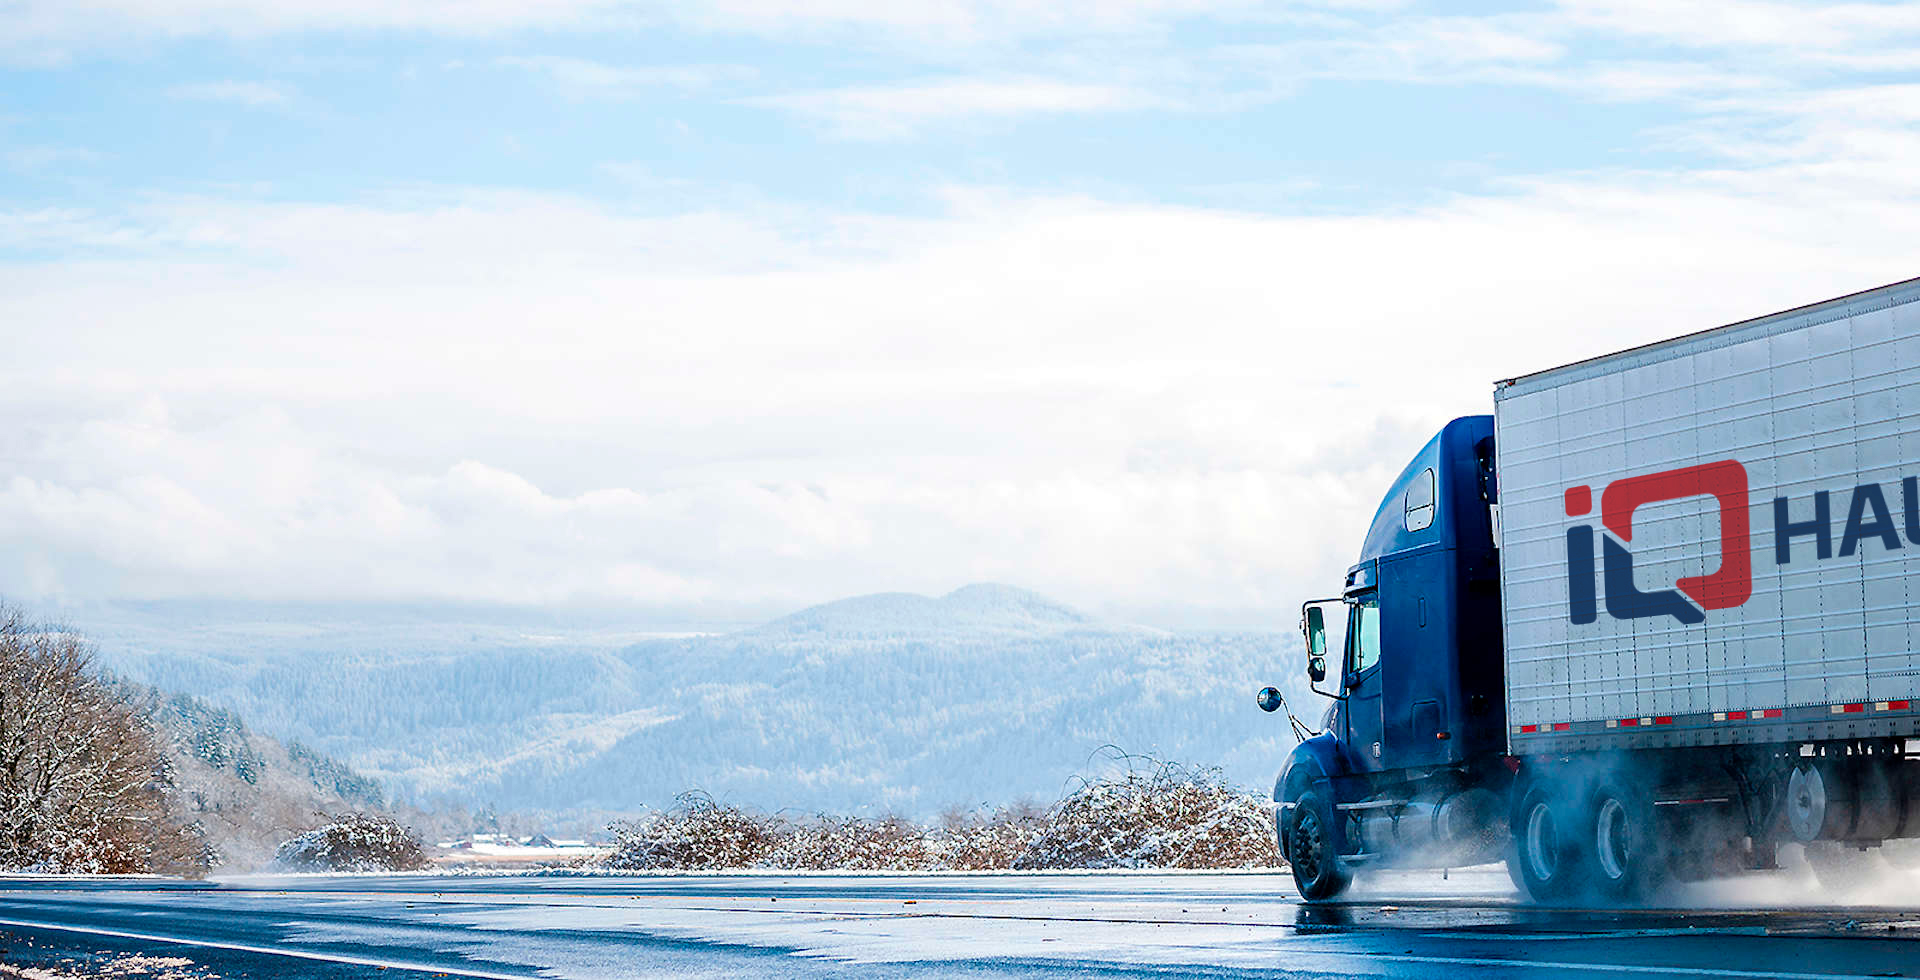
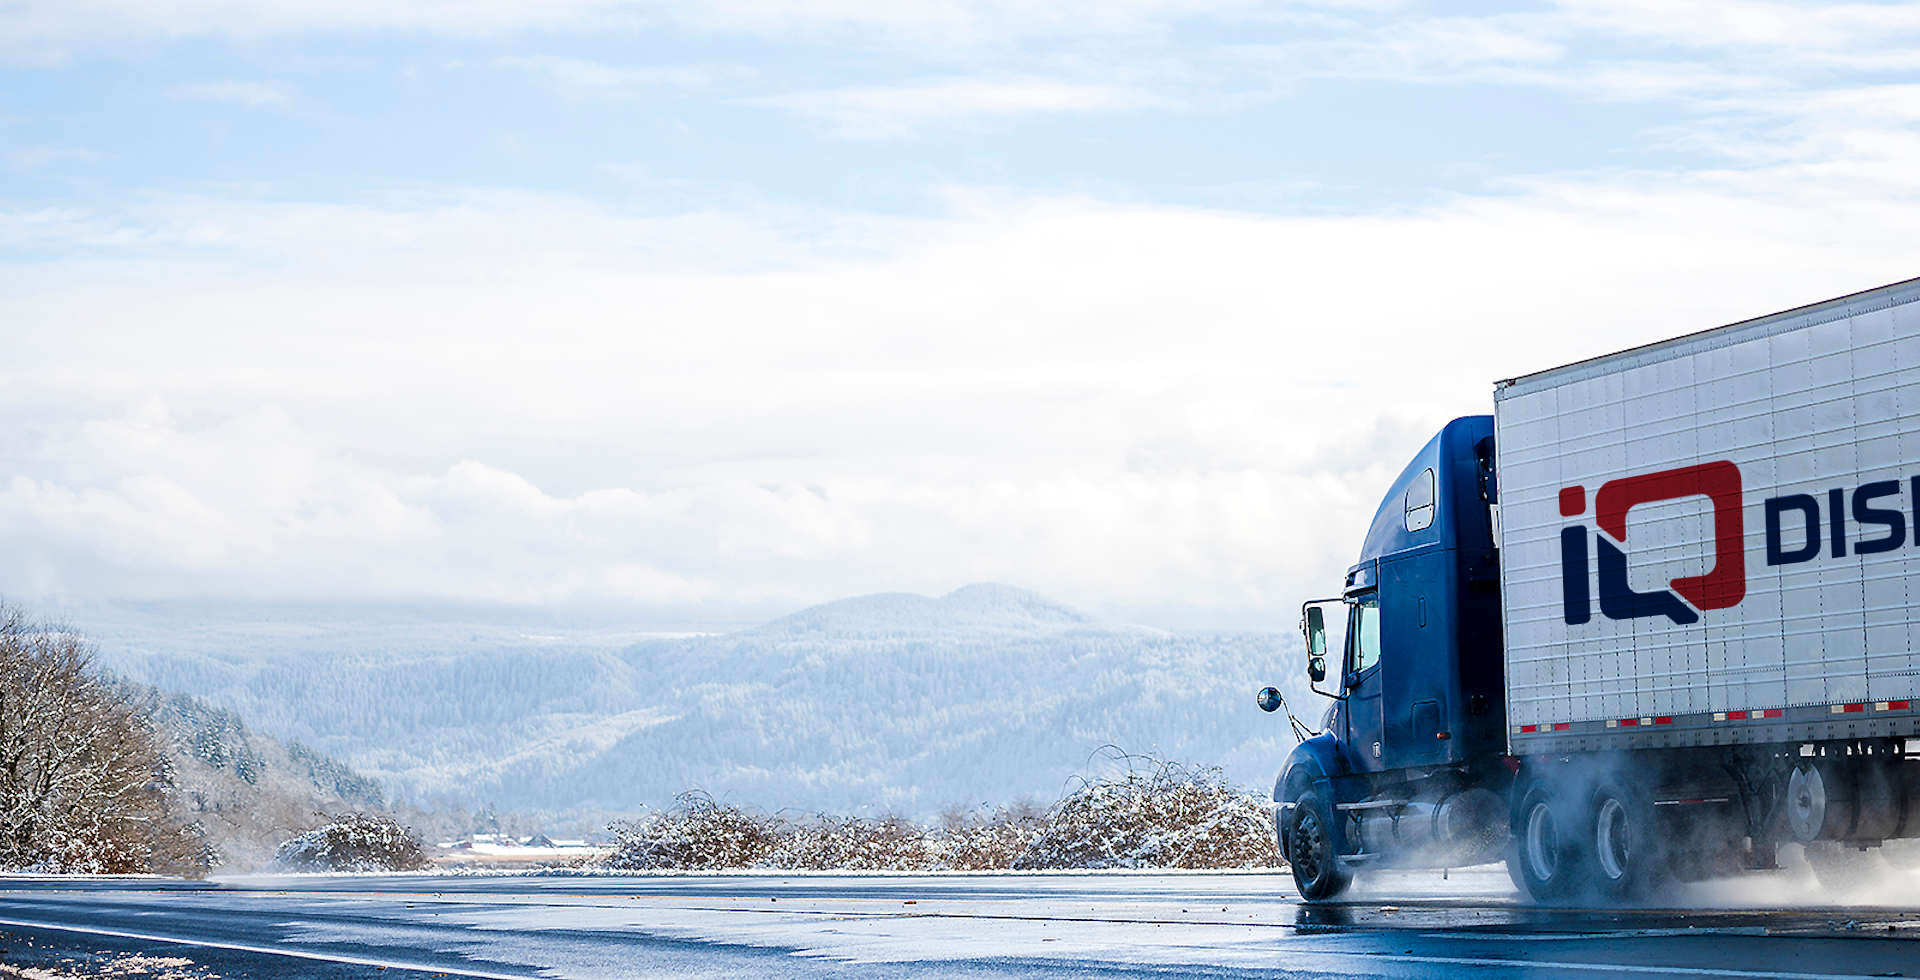
changed 1 slide pic and 3 slide text from IQHaulers to IQdispatch

diff --git a/src/components/HomePage.vue b/src/components/HomePage.vue
@@ -39,7 +39,8 @@
           <div class="col">
             <div class="cols3">
               <div class="c1_title">
-                <h1>IQHaulers introduces low&#8209;cost usage&#8209;based commercial insurance to owner&#8209;operators.
+                <h1>IQDispatch introduces low&#8209;cost usage&#8209;based commercial insurance to
+                  owner&#8209;operators.
                 </h1>
                 <h1>
                   Pay only for the days you run.
